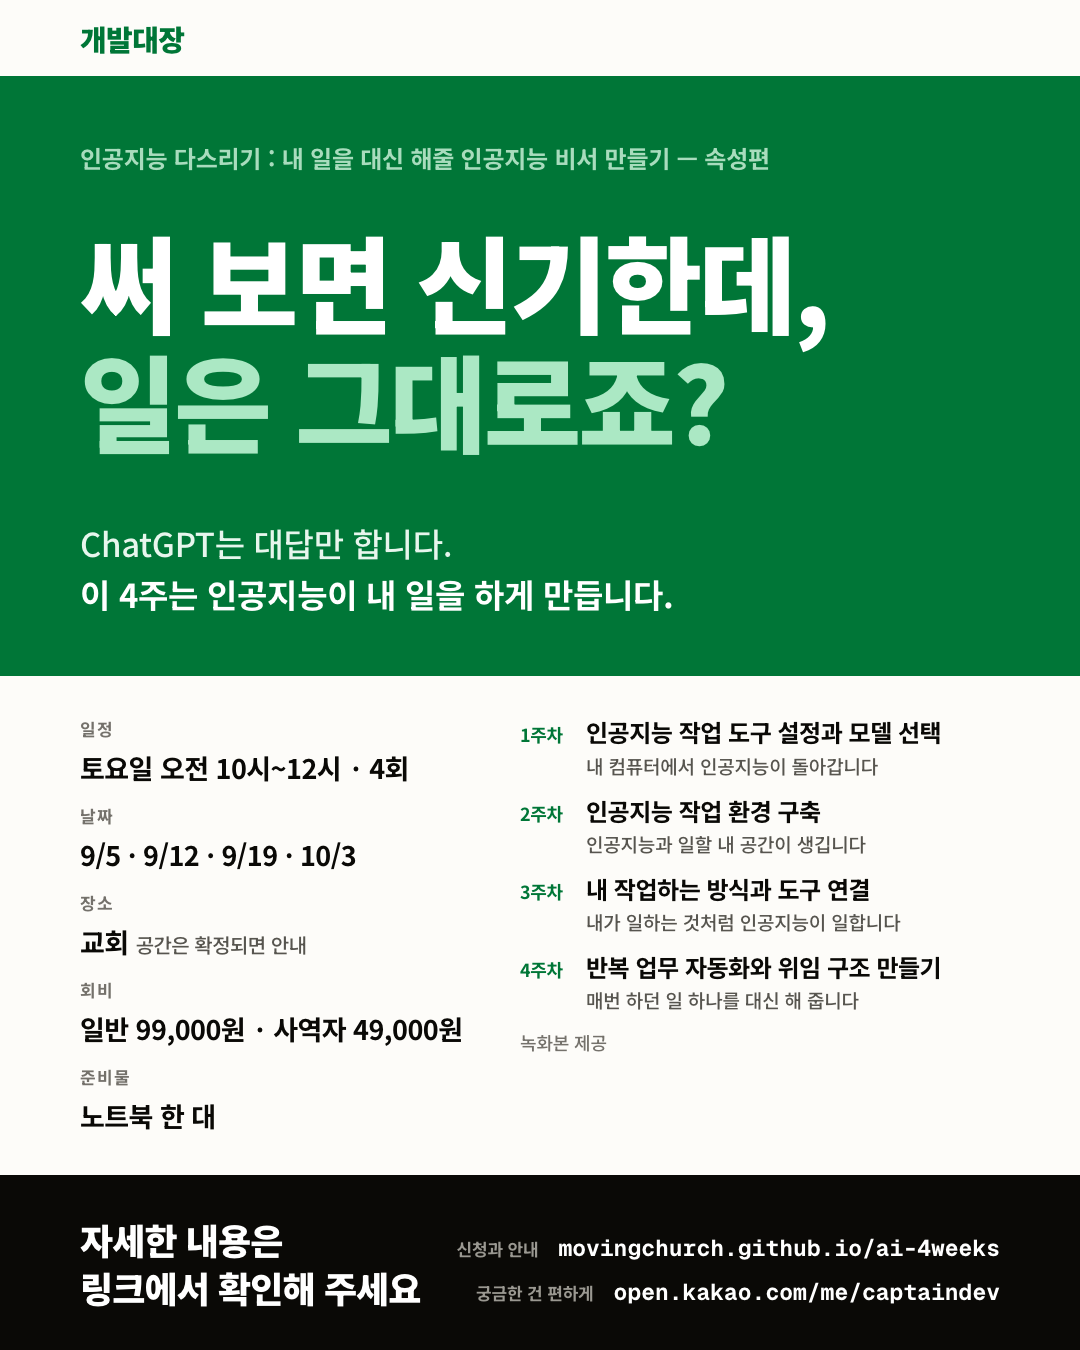
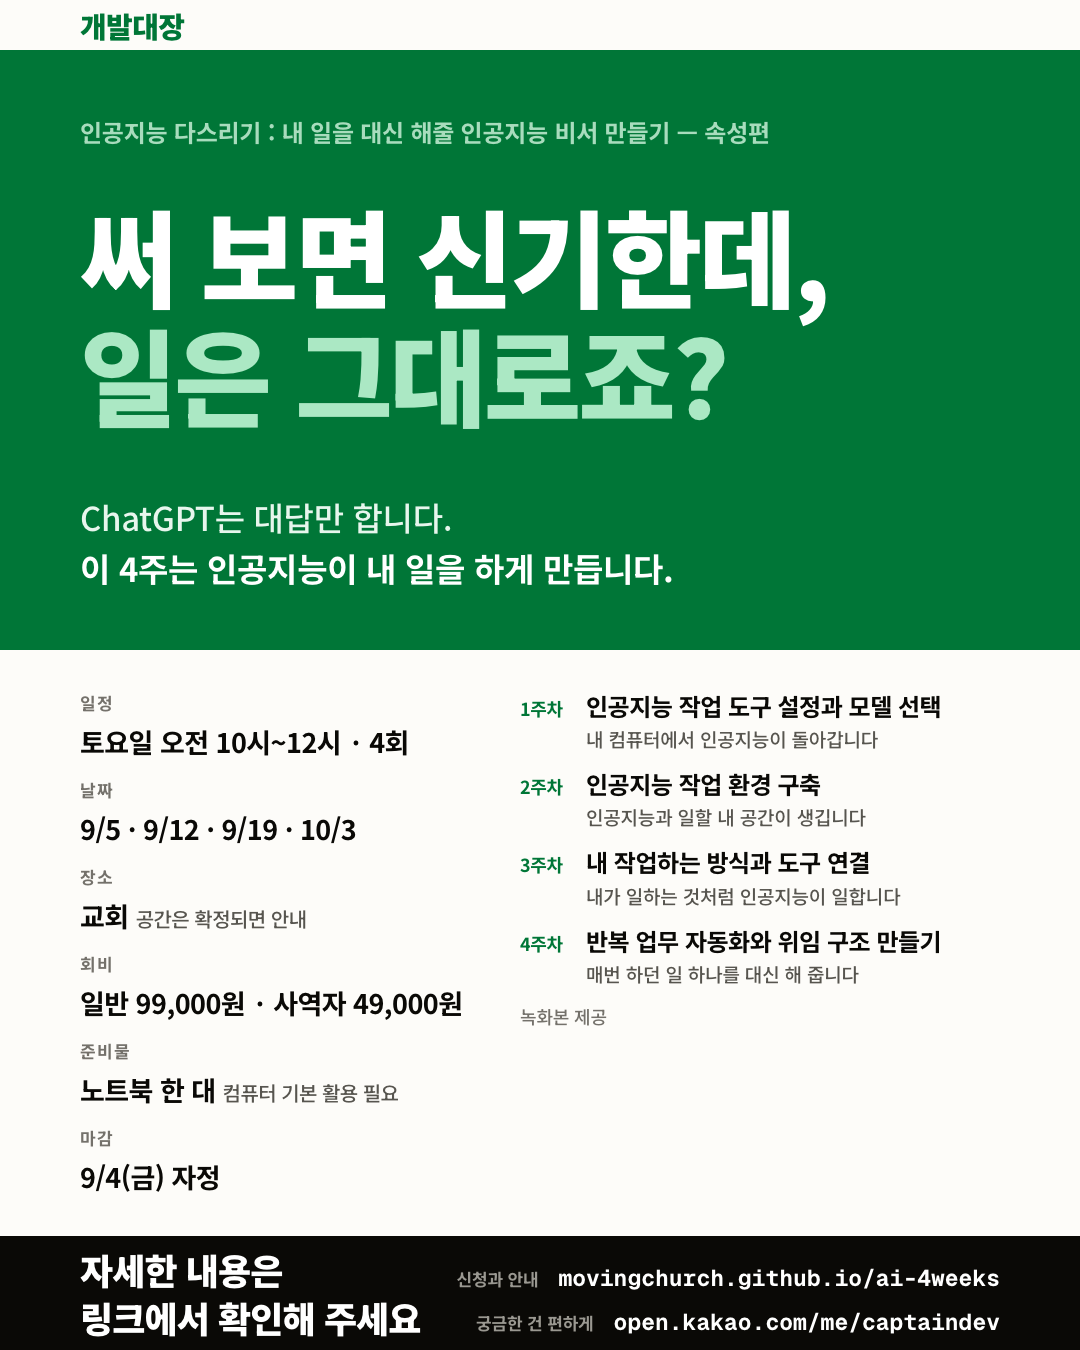
copy: 대상을 컴퓨터 기본 활용 능력 있는 분으로 좁히고 9/4(금) 자정 마감을 적는다 — 기획안과 맞춘다

diff --git a/index.html b/index.html
@@ -1157,7 +1157,7 @@
         </div>
       </article>
     </div>
-    <p class="target-close">컴퓨터를 잘 다루셔야 하는 건 아닙니다. 잘 다루시면 4주가 편하실 뿐입니다.</p>
+    <p class="target-close">컴퓨터 기본 활용 — 파일을 열고 저장하고 문서를 쓰는 정도 — 는 하실 수 있어야 합니다. 인공지능은 처음이어도 됩니다.</p>
   </div>
 </section>
 
@@ -1218,6 +1218,8 @@
     <ul>
       <li><b>일정</b><span>9/5 · 9/12 · 9/19 · 10/3 매주 토요일 오전 10시–12시, 총 4회. 9/26은 추석 연휴로 쉬고 10/3(개천절)은 진행합니다.</span></li>
       <li><b>장소</b><span>교회. 공간은 확정되는 대로 안내드립니다.</span></li>
+      <li><b>대상</b><span>컴퓨터 기본 활용 능력이 있는 분. 인공지능은 처음이어도 됩니다.</span></li>
+      <li><b>마감</b><span>9/4(금) 자정까지 신청을 받습니다.</span></li>
       <li><b>준비물</b><span>노트북 한 대. 필요한 프로그램은 1주차에 다 같이 깝니다.</span></li>
       <li><b>녹화본</b><span>각 회차 녹화본을 수강생께 드립니다. 빠진 주가 있어도 따라오실 수 있습니다.</span></li>
       <li><b>회비</b><span>일반 99,000원 · 사역자 49,000원. 신청은 폼으로 받고, 결제 안내는 신청하신 분께 따로 드립니다.</span></li>
